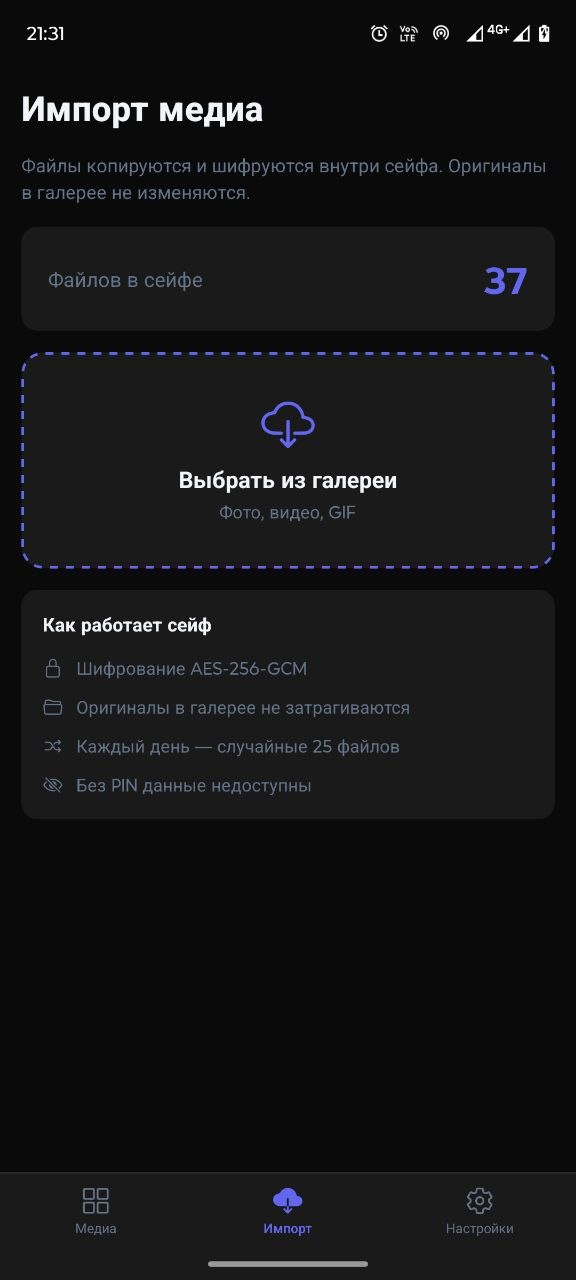
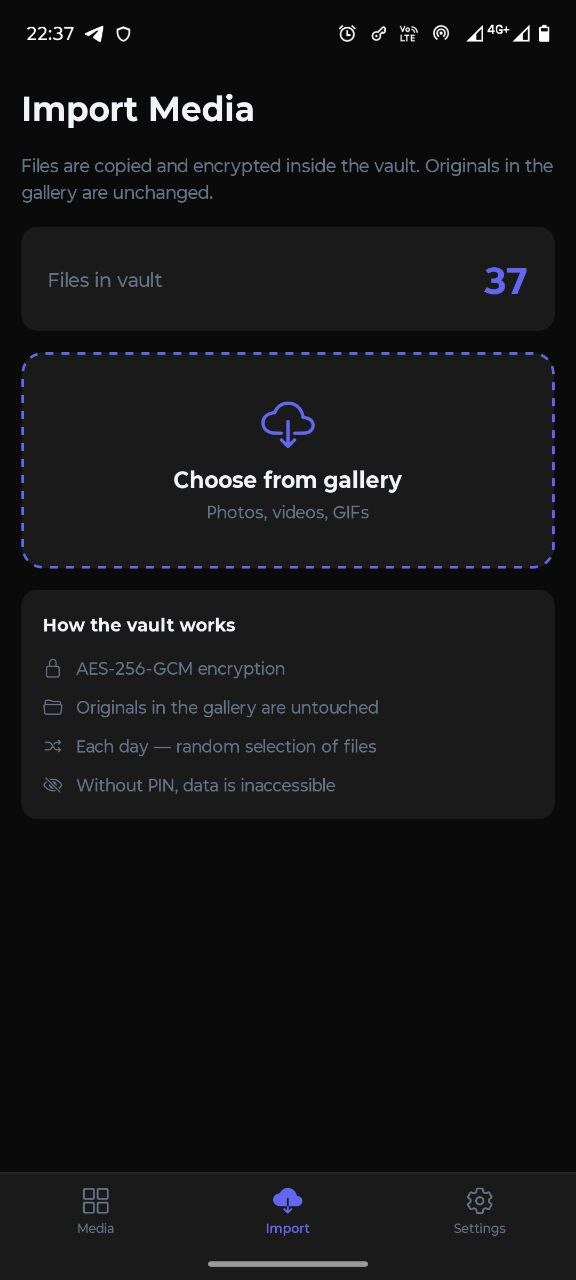
docs: работа с readme

diff --git a/README.md b/README.md
@@ -2,17 +2,17 @@
 
 A personal encrypted media vault for Android. Stores photos, videos and GIFs locally on-device — fully offline, protected by PIN, optionally by biometrics.
 
-> **Note:** This project was built quickly and for personal use. The code is functional but not production-grade, the architecture is straightforward. It does its job.
+> Built for personal use. The code is functional and the architecture is straightforward — it does its job well.
 
 <p align="center">
   <img src="screenshots/media.jpg" width="260" alt="All Media" />
-  &nbsp;
+  &nbsp;&nbsp;
   <img src="screenshots/import.jpg" width="260" alt="Import" />
-  &nbsp;
+  &nbsp;&nbsp;
   <img src="screenshots/settings.jpg" width="260" alt="Settings" />
 </p>
 <p align="center">
-  <sub>All Media &nbsp;&nbsp;&nbsp;&nbsp;&nbsp;&nbsp;&nbsp;&nbsp;&nbsp;&nbsp;&nbsp;&nbsp;&nbsp;&nbsp;&nbsp;&nbsp;&nbsp;&nbsp;&nbsp;&nbsp;&nbsp; Import &nbsp;&nbsp;&nbsp;&nbsp;&nbsp;&nbsp;&nbsp;&nbsp;&nbsp;&nbsp;&nbsp;&nbsp;&nbsp;&nbsp;&nbsp;&nbsp;&nbsp;&nbsp;&nbsp;&nbsp;&nbsp; Settings</sub>
+  <sub>All Media &nbsp;·&nbsp; Import &nbsp;·&nbsp; Settings</sub>
 </p>
 
 ## Features
@@ -20,7 +20,7 @@ A personal encrypted media vault for Android. Stores photos, videos and GIFs loc
 - AES-256-GCM encryption — every file encrypted individually before being written to disk
 - Keys stored in Android Keystore — never exposed to JS
 - PIN-code protected with brute-force counter
-- Optional biometric unlock (fingerprint / face) — hidden button, no visible hint, off by default (click the lower left corner)
+- Optional biometric unlock (fingerprint / face) — hidden button, no visible hint, off by default (tap the lower-left corner)
 - Safe Mode — a second independent vault opened with a different PIN
 - Daily randomizer tab — shows a random subset of your media each day (toggleable; shows all media when off)
 - Full media viewer with pinch-to-zoom, horizontal swipe between files, swipe-down to dismiss
@@ -30,10 +30,11 @@ A personal encrypted media vault for Android. Stores photos, videos and GIFs loc
 - Filter by type (photo / video / GIF) and sort in All Media
 - Import from gallery with encrypted thumbnail generation
 - Receive files via Android share sheet (ACTION_SEND / ACTION_SEND_MULTIPLE)
-- Export (temporary decrypted copy shared via system share)
+- Export — temporary decrypted copy shared via system share
 - Auto-lock after N minutes of inactivity
 - Shake-to-lock panic gesture (toggleable)
-- `FLAG_SECURE` — blocks screenshots and app switcher previews at OS level
+- `FLAG_SECURE` — blocks screenshots and app switcher previews at OS level (toggleable)
+- Russian / English UI — auto-detected from device locale (CIS → Russian, others → English), switchable in Settings
 - Light / Dark / System theme
 - Fully offline — zero network requests
 
@@ -54,6 +55,7 @@ A personal encrypted media vault for Android. Stores photos, videos and GIFs loc
 | Gallery access | `expo-media-library` |
 | Settings | `@react-native-async-storage/async-storage` |
 | Safe area | `react-native-safe-area-context` |
+| i18n | Custom (no external deps) — `Intl.DateTimeFormat` locale detection |
 
 ## Security model
 
@@ -61,7 +63,7 @@ A personal encrypted media vault for Android. Stores photos, videos and GIFs loc
 - Sub-keys derived per purpose (metadata store, file encryption) via PBKDF2
 - Safe Mode uses a completely separate master key and namespace (`vault_safe/`)
 - PIN is verified by attempting decryption — no plain PIN stored anywhere
-- `FLAG_SECURE` is set in `MainActivity.kt` — OS blocks screenshots at the window level
+- `FLAG_SECURE` is set in `MainActivity.kt` at startup; can be disabled per-user in Settings
 - Biometric button is intentionally invisible — its position is known only to the owner
 
 ## Build
@@ -80,12 +82,12 @@ cd android
 adb install -r app/build/outputs/apk/release/app-release.apk
 ```
 
-The release APK is signed with the debug keystore by default (`signingConfig signingConfigs.debug` in `build.gradle`). For distribution you'd swap in a proper keystore.
+The release APK is signed with the debug keystore by default (`signingConfig signingConfigs.debug` in `build.gradle`). For distribution swap in a proper keystore.
 
 ### Requirements
 
-- Android device / emulator with Android 10+ (API 29+)
-- `adb` available in PATH
+- Android 10+ (API 29+)
+- `adb` in PATH
 - JDK 17+
 - New Architecture enabled (`newArchEnabled=true`)
 
@@ -100,6 +102,7 @@ src/
   components/   TabBar, MediaThumbnail, ZoomableImage, PinPad, SelectionBar
   hooks/        useSelection
   context/      ThemeContext
+  i18n/         en.ts, ru.ts, index.ts — locale detection + runtime switching
   utils/        media helpers (formatDuration, formatFileSize, …)
   types/        shared TypeScript types
 android/        native Android project (Kotlin, Gradle)
@@ -107,10 +110,11 @@ android/        native Android project (Kotlin, Gradle)
 
 ## Android native additions
 
-Two things added to the default Expo template in `MainActivity.kt`:
+Three things added to the default Expo template:
 
-1. `FLAG_SECURE` set in `onCreate` — blocks screenshots
-2. `processShareIntent()` + `onNewIntent()` — receives files from the system share sheet, copies them to `cacheDir/pending_share/`, JS picks them up on next foreground
+1. **`FLAG_SECURE`** set in `MainActivity.kt` `onCreate` — blocks screenshots at the OS window level
+2. **Share intent handling** — `processShareIntent()` + `onNewIntent()` in `MainActivity.kt` receives files from the system share sheet, copies them to `cacheDir/pending_share/`, JS picks them up on next foreground
+3. **`SecureFlagModule.kt`** — native Kotlin module that lets JS toggle `FLAG_SECURE` at runtime (used by the screenshot-blocking toggle in Settings)
 
 ## License
 
